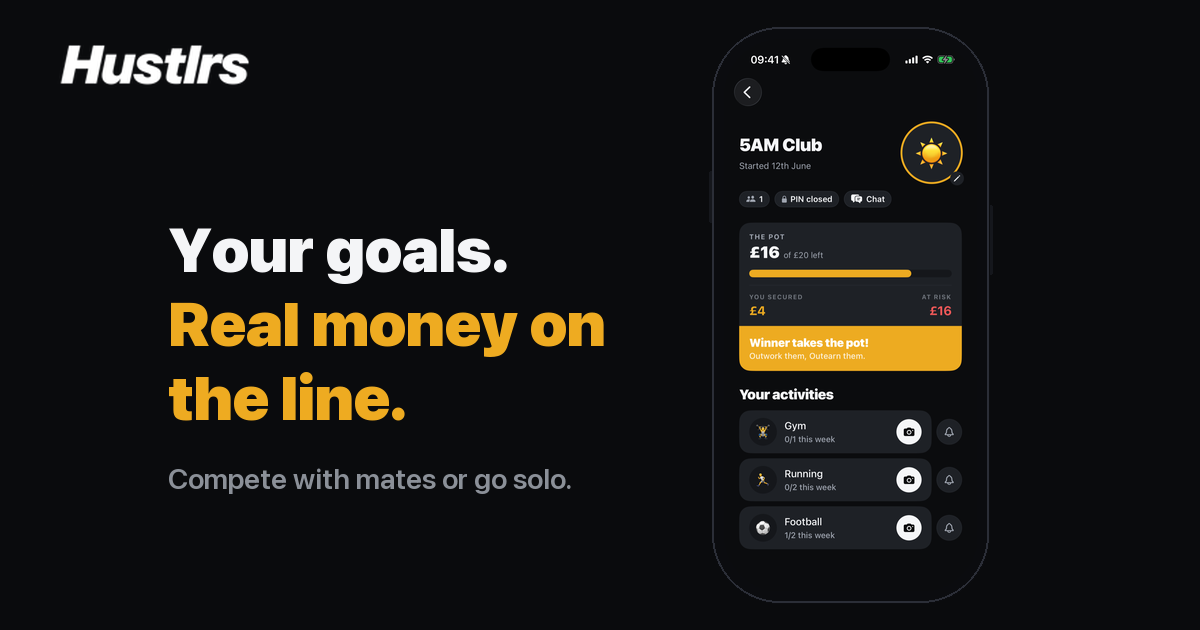
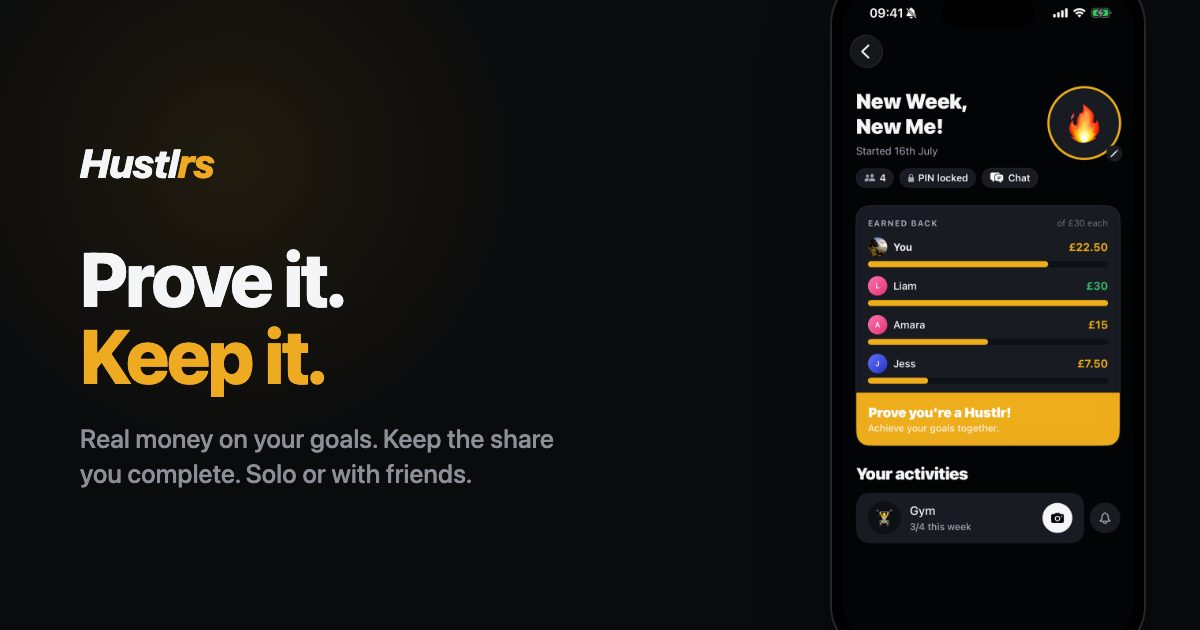
Replace share card with current model; bump image cache-busters
The og-image (social share card) still showed the old pot/winner model
('THE POT', 'Winner takes the pot!'). Rebuilt it with the current
messaging ('Prove it. Keep it.', keep-what-you-complete) and the New
Week New Me earned-back screen. Bumped ?v cache-busters on og-image and
the four refreshed app screenshots so they update for viewers/scrapers.

diff --git a/index.html b/index.html
@@ -9,14 +9,14 @@
   <meta property="og:description" content="Put real money on your goals. Show up, prove it by location, and keep the share you complete. Only what you miss is forfeited. Solo or with friends.">
   <meta property="og:url" content="https://hustlrs.co">
   <meta property="og:type" content="website">
-  <meta property="og:image" content="https://hustlrs.co/img/og-image.png?v=10">
+  <meta property="og:image" content="https://hustlrs.co/img/og-image.png?v=11">
   <meta property="og:image:width" content="1200">
   <meta property="og:image:height" content="630">
   <meta property="og:image:alt" content="Hustlrs — real money on your goals">
   <meta name="twitter:card" content="summary_large_image">
   <meta name="twitter:title" content="Hustlrs | Prove it. Keep it.">
   <meta name="twitter:description" content="Put real money on your goals. Show up, prove it by location, and keep the share you complete. Only what you miss is forfeited. Solo or with friends.">
-  <meta name="twitter:image" content="https://hustlrs.co/img/og-image.png?v=10">
+  <meta name="twitter:image" content="https://hustlrs.co/img/og-image.png?v=11">
   <link rel="icon" href="/favicon.ico?v=4" sizes="any">
   <link rel="icon" type="image/png" sizes="32x32" href="/img/favicon-32.png?v=2">
   <link rel="apple-touch-icon" href="/img/apple-touch-icon.png?v=2">
@@ -47,8 +47,8 @@
           </a>
         </div>
         <div class="hero-phones">
-          <div class="phone"><img src="img/app-home.png?v=2" alt="The Hustlrs home screen with friends and solo hustles"></div>
-          <div class="phone"><img src="img/app-feed.png?v=3" alt="The feed of activity photos"></div>
+          <div class="phone"><img src="img/app-home.png?v=3" alt="The Hustlrs home screen with friends and solo hustles"></div>
+          <div class="phone"><img src="img/app-feed.png?v=4" alt="The feed of activity photos"></div>
         </div>
       </div>
     </section>
@@ -58,13 +58,13 @@
       <h2>Solo or with friends.</h2>
       <div class="modes">
         <div class="mode">
-          <div class="mode-shot"><img src="img/mode-solo.png?v=2" alt="A solo hustle showing GPS check-in activities"></div>
+          <div class="mode-shot"><img src="img/mode-solo.png?v=3" alt="A solo hustle showing GPS check-in activities"></div>
           <span class="mode-tag tag-green">Solo</span>
           <h3>Commit to yourself</h3>
           <p>Just you and your goals. Pin each activity to a real place and check in by GPS when you're there. No group, no audience. Showing up is the proof.</p>
         </div>
         <div class="mode">
-          <div class="mode-shot"><img src="img/mode-friends.png?v=3" alt="A friends hustle showing the shared feed"></div>
+          <div class="mode-shot"><img src="img/mode-friends.png?v=4" alt="A friends hustle showing the shared feed"></div>
           <span class="mode-tag tag-gold">Friends</span>
           <h3>Bring your friends</h3>
           <p>Share a PIN, everyone deposits on the same goals. Check in at the spot and snap a photo, so your friends see the proof, not just the tick. All the proof lands in a shared feed.</p>
